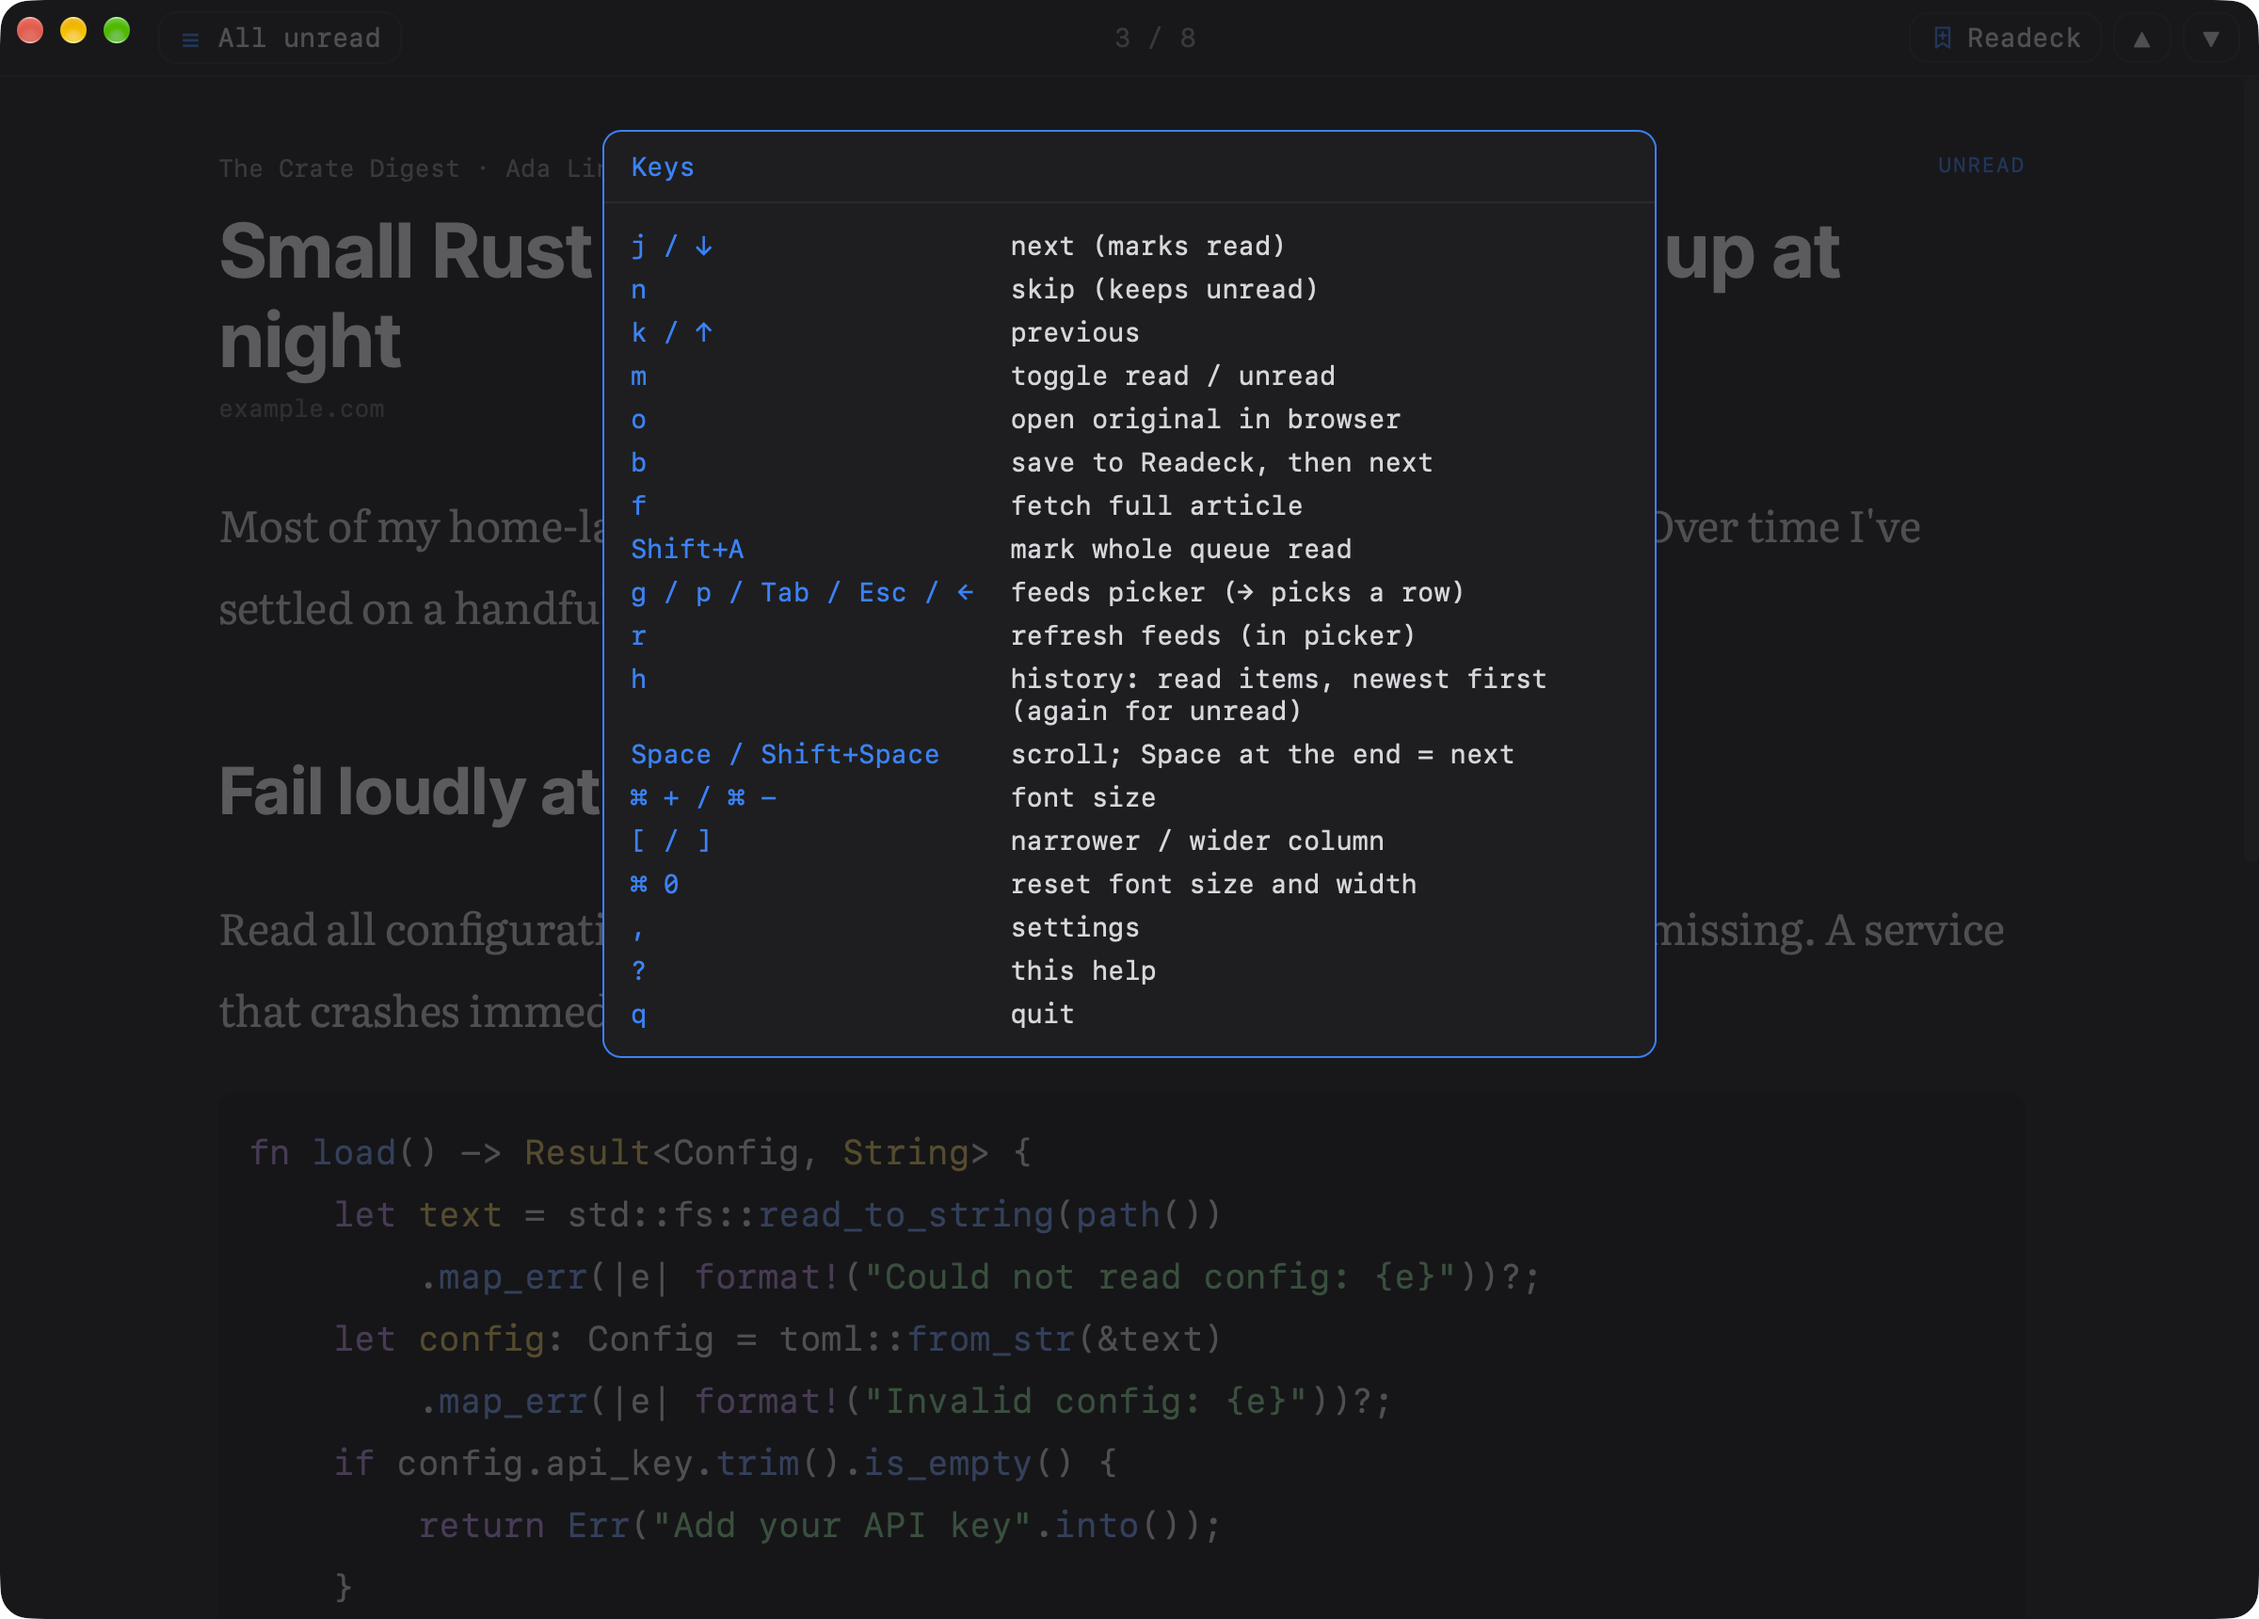
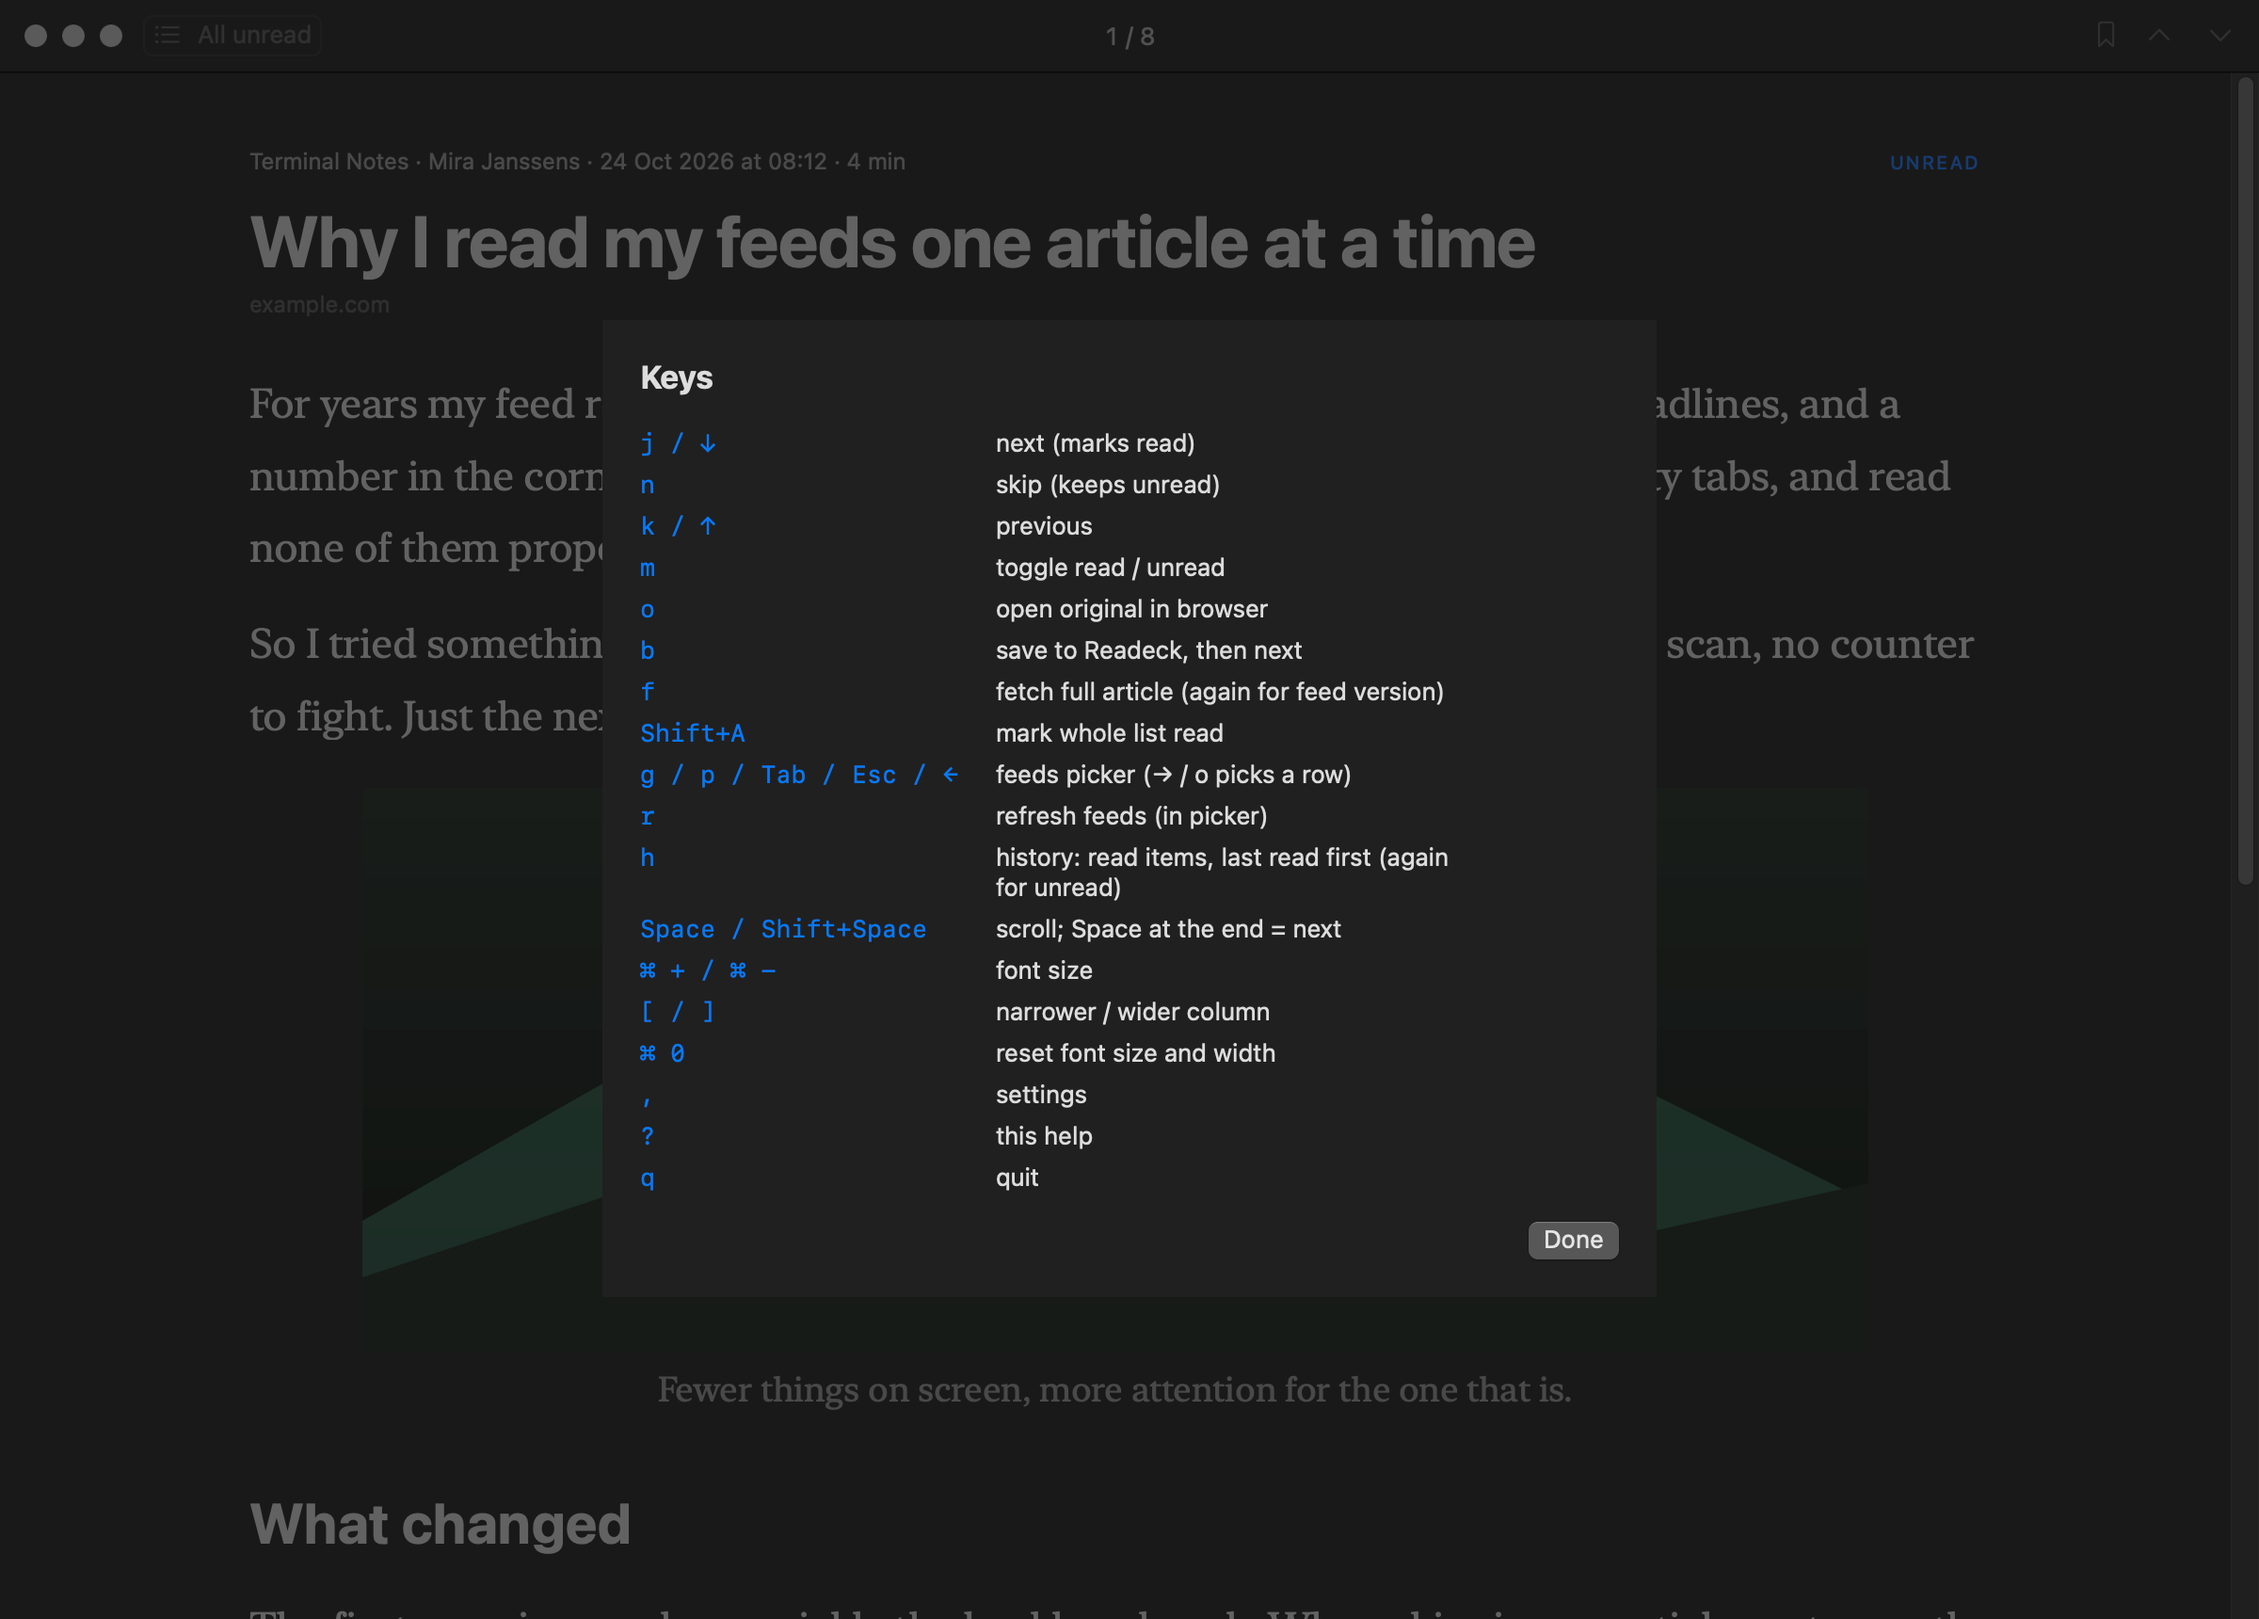
macOS: the picker as a sheet, the position in the toolbar, new screenshots
The toolbar mirrors the Qt top bar: feeds on the left (a clock icon in
history mode instead of a badge), where you are in the middle, buttons on
the right; the window title stays out of it. The picker is a sheet like
the keys, since a popover hung out of the window. Snapshots are 1200x860
and draw an open sheet over the window, which made the README's new
macOS screenshots.

diff --git a/macos/Sources/KletseRSS/Snapshot.swift b/macos/Sources/KletseRSS/Snapshot.swift
@@ -1,6 +1,8 @@
 // KLETSE_RSS_SNAPSHOT=/path.png: once the feeds are in, press KLETSE_RSS_SNAPSHOT_KEYS (default "Enter", which
 // opens the first row; a space is written "Space"), one per 400 ms, give images 3 s, save the window to the
-// PNG and quit. A popover or sheet that is open goes to a second file, "<path>-2.png". As the Qt version does.
+// PNG and quit. As the Qt version does. The window is 1200×860 for it, the size of the README's screenshots, and
+// a sheet that is open is drawn over it where it sits (the image grows to take in anything that hangs out of
+// the window). Alerts don't draw into a bitmap.
 import AppKit
 
 @MainActor
@@ -10,8 +12,13 @@ enum Snapshot {
         guard let path = env["KLETSE_RSS_SNAPSHOT"], !path.isEmpty else { return }
         let keys = (env["KLETSE_RSS_SNAPSHOT_KEYS"] ?? "Enter").split(separator: " ").map(String.init)
         Task { @MainActor in
-            while model.state?.picker.state != "ready" {
+            while model.state?.picker.state != "ready" && model.state?.overlay != "onboarding" || main() == nil {
                 try? await Task.sleep(for: .milliseconds(100))
+            }
+            if let window = main() {
+                let content = NSRect(x: 0, y: 0, width: 1200, height: 860)
+                window.setFrame(window.frameRect(forContentRect: content), display: true)
+                window.center()
             }
             for key in keys {
                 try? await Task.sleep(for: .milliseconds(400))
@@ -19,23 +26,43 @@ enum Snapshot {
             }
             try? await Task.sleep(for: .seconds(3))
             save(to: path)
-            // Not `terminate`: an open popover or sheet can hold that up.
+            // Not `terminate`: an open sheet can hold that up.
             exit(0)
         }
     }
 
+    /// The app's window, not a sheet or alert.
+    private static func main() -> NSWindow? {
+        NSApp.windows.first {
+            $0.isVisible && $0.styleMask.contains(.titled) && $0.sheetParent == nil && $0.frame.width >= 360
+        }
+    }
+
     private static func save(to path: String) {
-        // An alert's glass backdrop is a window of its own, and draws nothing into a bitmap.
-        let windows = NSApp.windows.filter { $0.isVisible && $0.frame.width > 1 && !$0.className.contains("Glass") }
-            .sorted { $0.frame.width * $0.frame.height > $1.frame.width * $1.frame.height }
-        for (i, window) in windows.prefix(2).enumerated() {
-            // The frame view: the content and the title bar with its toolbar.
+        guard let main = main() else { return }
+        // The window first, then what floats over it, each by its frame view (content, title bar, toolbar).
+        // An alert's glass backdrop is a window of its own that draws nothing.
+        let others = NSApp.windows.filter { $0 !== main && $0.isVisible && !$0.className.contains("Glass") }
+        let canvas = others.reduce(main.frame) { $0.union($1.frame) }
+        let scale = main.backingScaleFactor
+        guard let out = NSBitmapImageRep(
+            bitmapDataPlanes: nil, pixelsWide: Int(canvas.width * scale),
+            pixelsHigh: Int(canvas.height * scale), bitsPerSample: 8, samplesPerPixel: 4, hasAlpha: true,
+            isPlanar: false, colorSpaceName: .deviceRGB, bytesPerRow: 0, bitsPerPixel: 0
+        ) else { return }
+        out.size = canvas.size
+        NSGraphicsContext.saveGraphicsState()
+        NSGraphicsContext.current = NSGraphicsContext(bitmapImageRep: out)
+        for window in [main] + others {
             guard let view = window.contentView?.superview ?? window.contentView,
                   let rep = view.bitmapImageRepForCachingDisplay(in: view.bounds)
             else { continue }
             view.cacheDisplay(in: view.bounds, to: rep)
-            let file = i == 0 ? path : path.replacingOccurrences(of: ".png", with: "-2.png")
-            try? rep.representation(using: .png, properties: [:])?.write(to: URL(fileURLWithPath: file))
+            let at = NSPoint(x: window.frame.minX - canvas.minX, y: window.frame.minY - canvas.minY)
+            rep.draw(in: NSRect(origin: at, size: window.frame.size), from: .zero, operation: .sourceOver,
+                     fraction: 1, respectFlipped: true, hints: nil)
         }
+        NSGraphicsContext.restoreGraphicsState()
+        try? out.representation(using: .png, properties: [:])?.write(to: URL(fileURLWithPath: path))
     }
 }

diff --git a/macos/Sources/KletseRSS/ContentView.swift b/macos/Sources/KletseRSS/ContentView.swift
@@ -1,5 +1,5 @@
 // The window: the toolbar, the reader (an article, a message or the settings form), and what goes over it:
-// the feeds picker (a popover), the keys (a sheet), the confirm dialog (an alert) and toasts.
+// the feeds picker and the keys (sheets), the confirm dialog (an alert) and toasts.
 import SwiftUI
 
 struct ContentView: View {
@@ -21,7 +21,13 @@ struct ContentView: View {
         .navigationTitle(state?.windowTitle ?? "Kletse RSS")
         .toolbar(removing: .title)
         .toolbar { if state?.screen != "settings" { toolbar(state) } }
-        .sheet(isPresented: binding("help", dismiss: model.closeHelp)) { HelpView(model: model) }
+        // One sheet for both: SwiftUI shows one at a time, and the core goes from the picker to the keys directly.
+        .sheet(item: sheet) { sheet in
+            switch sheet {
+            case .picker: PickerView(model: model)
+            case .help: HelpView(model: model)
+            }
+        }
         .alert(
             state?.confirmText ?? "",
             isPresented: binding("confirm", dismiss: {}),
@@ -50,9 +56,6 @@ struct ContentView: View {
                     .labelStyle(.titleAndIcon)
             }
             .help("Feeds (p)")
-            .popover(isPresented: binding("picker", dismiss: model.pickerBackdrop), arrowEdge: .bottom) {
-                PickerView(model: model)
-            }
         }
         if let position = state?.position, !position.isEmpty {
             ToolbarItem(placement: .principal) {
@@ -75,7 +78,28 @@ struct ContentView: View {
         }
     }
 
-    /// Shown while the core has `overlay` up; a dismissal by the system (a click outside the popover) asks it.
+    private enum Sheet: String, Identifiable {
+        case picker, help
+        var id: String { rawValue }
+    }
+
+    /// The sheet for the core's overlay; a dismissal by the system asks the core, which may keep the picker up
+    /// (with nothing chosen yet, there is nothing to go back to).
+    private var sheet: Binding<Sheet?> {
+        Binding(
+            get: { model.state.flatMap { Sheet(rawValue: $0.overlay) } },
+            set: { shown in
+                guard shown == nil else { return }
+                switch model.state?.overlay {
+                case "picker": model.pickerBackdrop()
+                case "help": model.closeHelp()
+                default: break
+                }
+            }
+        )
+    }
+
+    /// Shown while the core has `overlay` up; a dismissal by the system asks it.
     private func binding(_ overlay: String, dismiss: @escaping () -> Void) -> Binding<Bool> {
         Binding(
             get: { model.state?.overlay == overlay },

diff --git a/macos/Sources/KletseRSS/PickerView.swift b/macos/Sources/KletseRSS/PickerView.swift
@@ -1,4 +1,4 @@
-// The feeds picker, in a popover from the toolbar: "All unread", categories, and their feeds with unread counts.
+// The feeds picker, in a sheet: "All unread", categories, and their feeds with unread counts.
 // In history mode the same, with read counts. The cursor and the rows come from the core; a click picks a row.
 import SwiftUI
 

diff --git a/AGENTS.md b/AGENTS.md
@@ -141,7 +141,7 @@ so keep that in mind before sharing a screenshot.
 - **SwiftUI only draws and forwards**, like the QML: `Model.swift` holds the last reply. Every key goes through
   an `NSEvent` local monitor (`Keyboard.swift`) to the core first, named as `keyName()` in Main.qml names them,
   with ⌘ as `ctrl` and Control as `meta`. Keys the core doesn't use carry on (⌘Q, typing in a field). Overlays
-  map onto native presentation: the picker is a popover, help a sheet, confirm an alert. Their bindings only
+  map onto native presentation: the picker and help are sheets, confirm an alert. Their bindings only
   ask the core to close them.
 - **The toolbar mirrors the Qt top bar:** the feeds button on the left (a clock icon in history mode), where you
   are in the middle ("History · 8 / 88"), the buttons on the right. The window title is set but kept out of the
@@ -153,5 +153,5 @@ so keep that in mind before sharing a screenshot.
 - **The window must be told to open at launch** (`.defaultLaunchBehavior(.presented)`): macOS remembers a
   `Window` that was closed at the last quit, per bundle id, and otherwise starts with no window at all.
 - **Snapshots work as for Qt:** `KLETSE_RSS_DEMO=1 KLETSE_RSS_SNAPSHOT=/tmp/shot.png KLETSE_RSS_SNAPSHOT_KEYS="Enter ?"
-  "packaging/Kletse RSS.app/Contents/MacOS/kletse-rss"`. The window really opens on screen. A popover or sheet
-  goes to `/tmp/shot-2.png`; alerts don't draw into a bitmap.
+  "packaging/Kletse RSS.app/Contents/MacOS/kletse-rss"`. The window really opens on screen. An open sheet is drawn
+  over the window, at 1200×860 as the README's shots are; alerts don't draw into a bitmap.

diff --git a/README.md b/README.md
@@ -119,7 +119,7 @@ packaging/macos/build-app.sh
 cp -r "packaging/Kletse RSS.app" /Applications/
 ```
 
-Open it from Spotlight or the Dock. The window title, shown in Mission Control and the Window menu, is the article you're reading, and the toolbar shows where you are in the list. The feeds picker opens as a popover from the toolbar, the keys as a sheet. Text is set in New York, headings in SF, code in SF Mono, and scrolling is the system's own. Size and position are remembered between launches. The app follows the system light/dark mode and accent colour, the **Article** menu has the reading actions, and the usual <kbd>⌘</kbd><kbd>Q</kbd>, <kbd>⌘</kbd><kbd>W</kbd>, <kbd>⌘</kbd><kbd>M</kbd>, <kbd>⌘</kbd><kbd>H</kbd> and <kbd>⌘</kbd><kbd>,</kbd> work.
+Open it from Spotlight or the Dock. The window title, shown in Mission Control and the Window menu, is the article you're reading, and the toolbar shows where you are in the list. The feeds picker and the keys open as sheets. Text is set in New York, headings in SF, code in SF Mono, and scrolling is the system's own. Size and position are remembered between launches. The app follows the system light/dark mode and accent colour, the **Article** menu has the reading actions, and the usual <kbd>⌘</kbd><kbd>Q</kbd>, <kbd>⌘</kbd><kbd>W</kbd>, <kbd>⌘</kbd><kbd>M</kbd>, <kbd>⌘</kbd><kbd>H</kbd> and <kbd>⌘</kbd><kbd>,</kbd> work.
 
 **Updating from source:** pull, rebuild, and replace the copy in `/Applications` (quit the app first, otherwise macOS keeps running the old binary):
 
